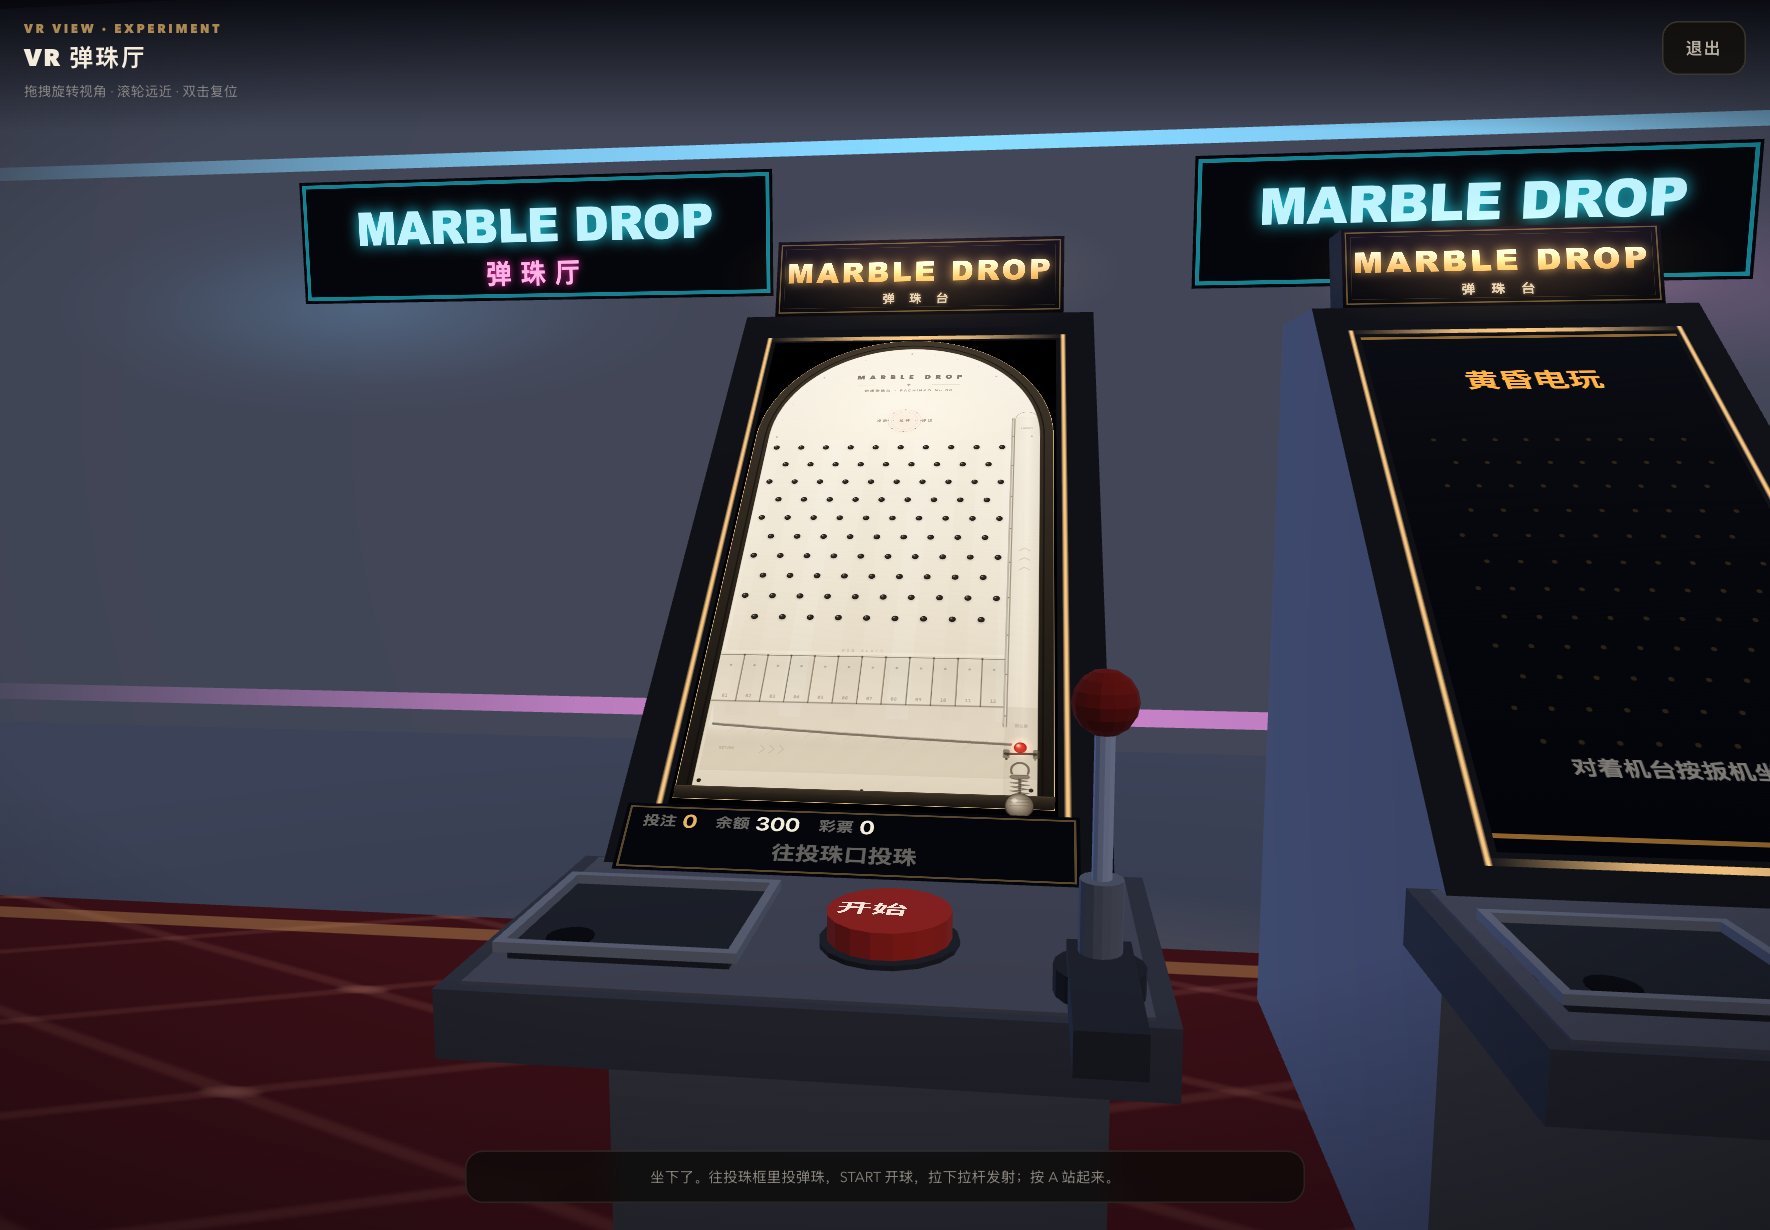
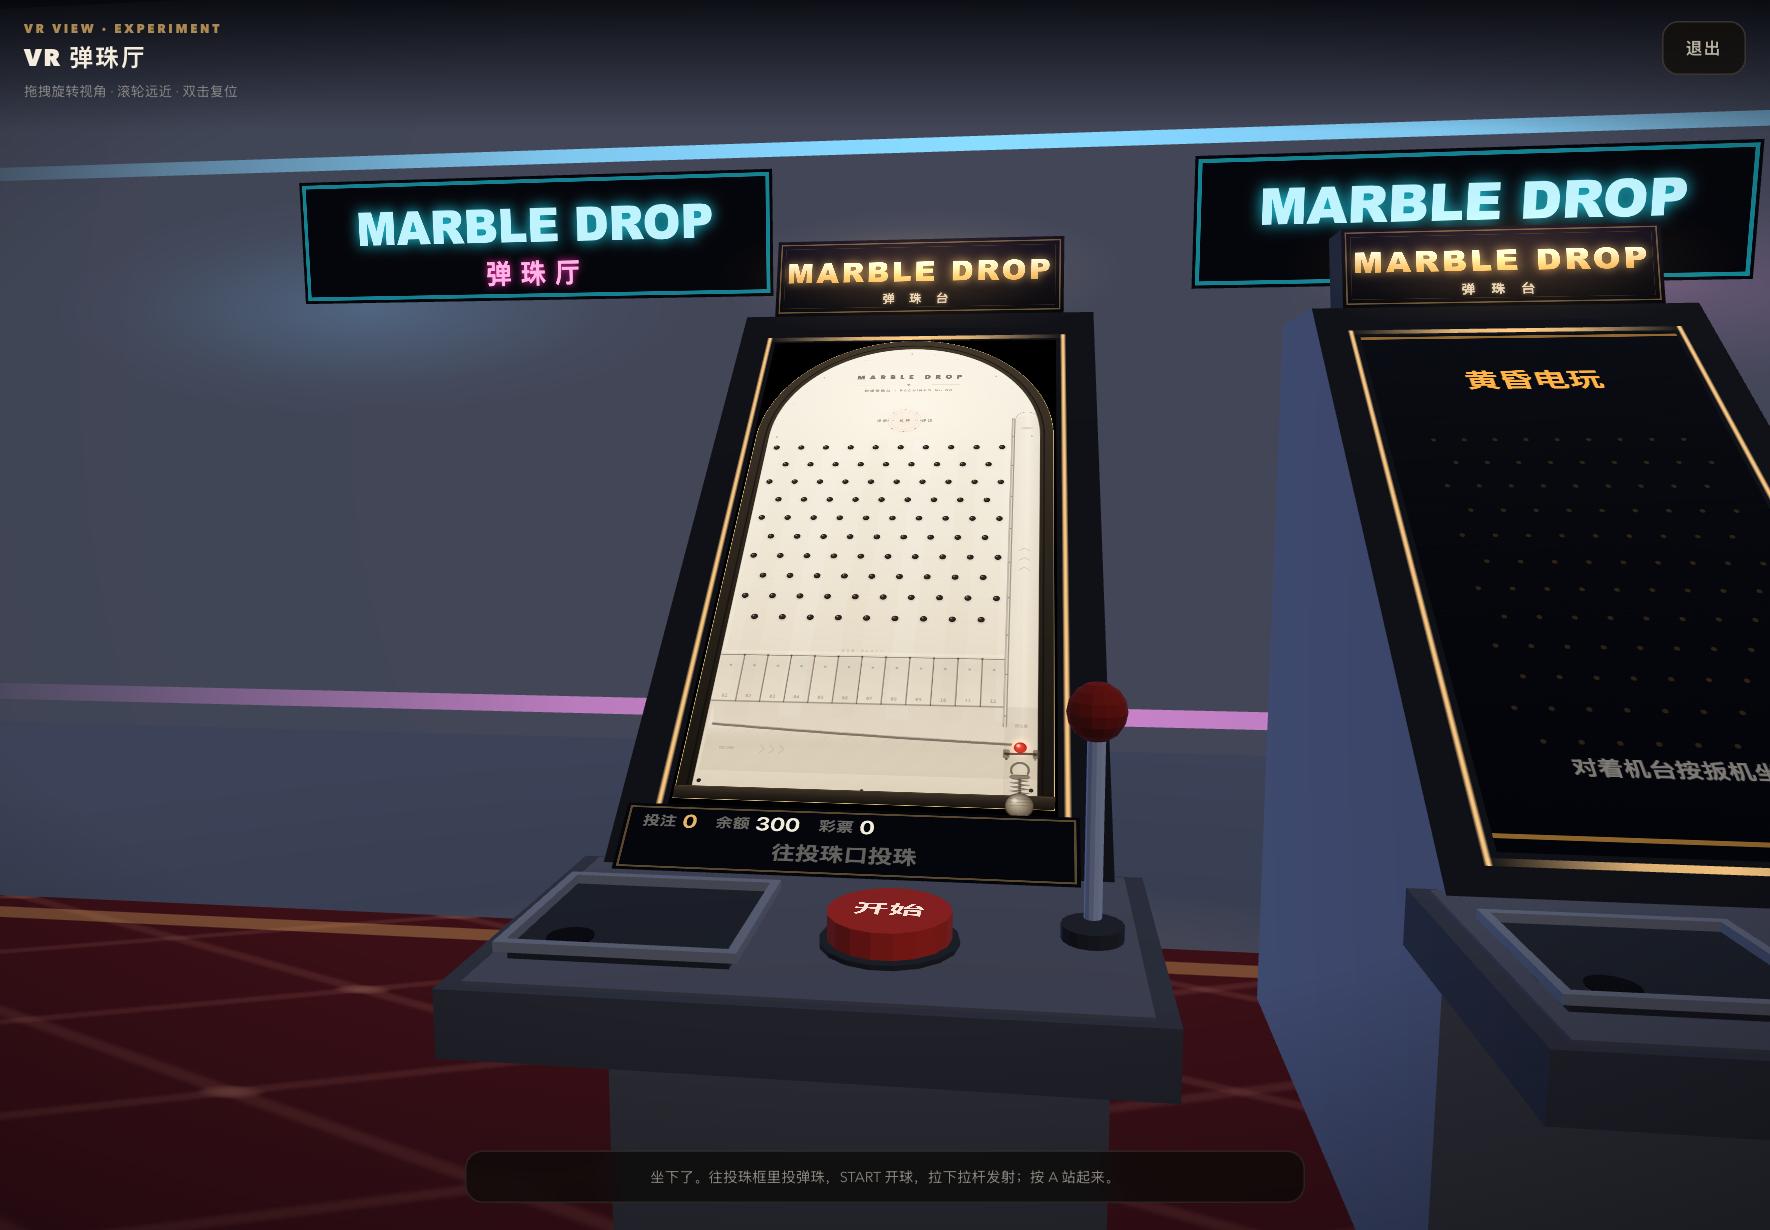
fix(vr): 拉杆靠向屏幕、底座改为小圆盘，开始文字居中

Changed region(s): [[0.5904, 0.5252, 0.6525, 0.8341], [0.4972, 0.7106, 0.5282, 0.7415]]

diff --git a/src/vr/scene.js b/src/vr/scene.js
@@ -117,9 +117,9 @@ const DECK_BUTTONS = [
    Grab the ball and press it down; release to launch. */
 const LEVER = {
   x: 0.32,
-  z: 0.95,
+  z: 0.8,
   baseY: 0.7,
-  restY: 1.02,
+  restY: 0.98,
   travel: 0.16,
   knobRadius: 0.036,
   rodRadius: 0.011,
@@ -1155,19 +1155,7 @@ function buildGeometry(gl) {
       ...cylinderPolygons(button.x, DECK.top + 0.004, button.z, button.radius + 0.009, 0.006, 18, DECK_COLORS.ring),
     );
   }
-  deckPolys.push(...cylinderPolygons(LEVER.x, DECK.top + 0.004, LEVER.z, 0.05, 0.03, 18, DECK_COLORS.ring));
-  /* Slide housing: keeps the plunger looking connected while it is pulled out. */
-  deckPolys.push(
-    ...boxPolygons(
-      LEVER.x - 0.035,
-      LEVER.x + 0.035,
-      DECK.top + 0.004,
-      DECK.top + 0.05,
-      LEVER.z - 0.03,
-      LEVER.z + LEVER.travel + 0.03,
-      [0.05, 0.055, 0.07],
-    ),
-  );
+  deckPolys.push(...cylinderPolygons(LEVER.x, DECK.top + 0.004, LEVER.z, 0.038, 0.018, 18, DECK_COLORS.ring));
 
   /* Marble feeder tray: shallow box, lip, and a hole where the marbles fall. */
   const trayLeft = FEEDER.x - FEEDER.width / 2;
@@ -1200,14 +1188,13 @@ function buildGeometry(gl) {
 
   const marbleMesh = createLitMesh(gl, spherePolygons(0, 0, 0, 0.013, 6, 10, [0.93, 0.93, 0.88]));
 
-  /* Debug refresh button, floating at the left of the active machine. */
   const startLabel = createQuad(
     gl,
     [
-      [-0.005, 0.7455, 0.905],
-      [0.125, 0.7455, 0.905],
-      [0.125, 0.7455, 0.775],
-      [-0.005, 0.7455, 0.775],
+      [0.015, 0.7455, 0.905],
+      [0.145, 0.7455, 0.905],
+      [0.145, 0.7455, 0.775],
+      [0.015, 0.7455, 0.775],
     ],
     [
       [0, 0],
@@ -1216,7 +1203,6 @@ function buildGeometry(gl) {
       [0, 1],
     ],
   );
-
   const shopBody = createLitMesh(gl, [
     ...boxPolygons(SHOP.left, SHOP.right, 0, 0.62, SHOP.back, SHOP.front, [0.11, 0.12, 0.15]),
     ...boxPolygons(SHOP.left, SHOP.right, 0.62, SHOP.top, SHOP.back, SHOP.back + 0.07, [0.1, 0.11, 0.14]),
@@ -1296,11 +1282,6 @@ function buildGeometry(gl) {
     gl,
     cylinderPolygons(LEVER.x, LEVER.baseY + 0.03, LEVER.z, LEVER.rodRadius, LEVER.restY - LEVER.baseY - 0.03, 12, DECK_COLORS.rod),
   );
-  /* Clean plunger sleeve instead of the bead coil. */
-  const leverSleeve = createLitMesh(
-    gl,
-    cylinderPolygons(LEVER.x, LEVER.baseY + 0.03, LEVER.z, 0.024, 0.1, 16, [0.13, 0.14, 0.17]),
-  );
   const leverKnob = createLitMesh(
     gl,
     spherePolygons(LEVER.x, LEVER.restY, LEVER.z, LEVER.knobRadius, 8, 14, DECK_COLORS.knob),
@@ -1348,7 +1329,6 @@ function buildGeometry(gl) {
     buttonCaps,
     leverRod,
     leverKnob,
-    leverSleeve,
     hud,
     stool,
     marbleMesh,
@@ -1909,7 +1889,6 @@ export function createScene(canvas, boardCanvas) {
         drawLit(geometry.buttonCaps[button.id], live ? tintFor(button.id) : dim);
       }
       const pull = live ? leverPull : 0;
-      drawLit(geometry.leverSleeve);
       drawLit(geometry.leverRod, live ? tintFor("lever") : dim, [0, -pull, 0]);
       drawLit(geometry.leverKnob, live ? tintFor("lever") : dim, [0, -pull, 0]);
       const stoolHover = hoverId === "stool" && hoverIndex === (cabinet.index ?? index);
